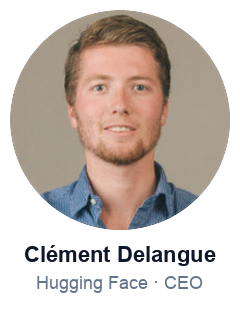
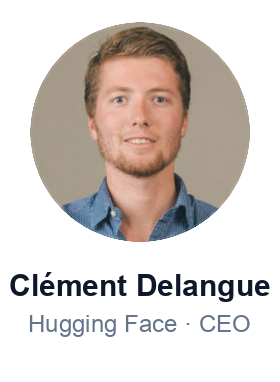
readme: scale libraries grid to 60 portraits in 6×10 rows
Triples the discovery section so the README feels like an actual
library directory rather than a sampler. New picks lean on women in
AI and less-celebrity researchers the previous shortlist missed:

  - Sara Hooker, Anima Anandkumar, Chelsea Finn, Natasha Jaques,
    Maithra Raghu, Irina Rish, Danqi Chen, Rachel Thomas, Merve Noyan
  - Tri Dao, Albert Gu, Lucas Beyer, Tim Dettmers, Horace He,
    Sander Dieleman, Jared Kaplan, Sam Bowman, Jason Wei
  - OpenAI: Greg Brockman, Sam Altman, Mark Chen, Wojciech Zaremba
  - Mistral/Meta: Guillaume Lample, Thomas Scialom
  - European AI: Gilles Louppe, Tim Rocktäschel, François Fleuret
  - Educators: Simon Willison, Jay Alammar, Philipp Schmid, Stas Bekman
  - Plus: Aravind Srinivas, Pieter Abbeel, Sergey Levine, Edward
    Grefenstette, Douwe Kiela, Kyunghyun Cho, Percy Liang, Graham
    Neubig, Arvind Narayanan

Rebaked every card at 280×382 px with bigger labels (Arial Bold 30 +
Arial 24) so when rendered at width=85 the name and role stay legible
instead of collapsing to illegible noise. Six avatars fell back to
initial-monograms when their HuggingFace placeholder URL or Wikipedia
hotlink wasn't fetchable.

Image width drops from 140 to 85 so all ten fit in GitHub's ~896 px
content column on a single line.

diff --git a/README.md b/README.md
@@ -4,7 +4,7 @@
 
 <p align="center"><em>A biased Feed.</em></p>
 
-<p align="center">An opinionated reading list of <strong>454 people</strong> who shape AI, science, and software today. A place to learn.</p>
+<p align="center">An opinionated reading list of <strong>450+ people</strong> who shape AI, science, and software today. A place to learn.</p>
 
 <p align="center"><em>No ads, no algorithm, no infinite scroll. Just what they read.</em></p>
 
@@ -33,38 +33,84 @@ Tap the heart on any card and the doc lands in your library, indexed and searcha
 <p align="center">A few rooms worth walking into.</p>
 
 <p align="center">
-<a href="https://knowledge-web.org/geoffrey-hinton" title="Geoffrey Hinton"><img src="web/img/people/geoffrey-hinton.png" alt="Geoffrey Hinton" width="140"></a>
-<a href="https://knowledge-web.org/yoshua-bengio" title="Yoshua Bengio"><img src="web/img/people/yoshua-bengio.png" alt="Yoshua Bengio" width="140"></a>
-<a href="https://knowledge-web.org/yann-lecun" title="Yann LeCun"><img src="web/img/people/yann-lecun.png" alt="Yann LeCun" width="140"></a>
-<a href="https://knowledge-web.org/andrej-karpathy" title="Andrej Karpathy"><img src="web/img/people/andrej-karpathy.png" alt="Andrej Karpathy" width="140"></a>
-<a href="https://knowledge-web.org/ian-goodfellow" title="Ian Goodfellow"><img src="web/img/people/ian-goodfellow.png" alt="Ian Goodfellow" width="140"></a>
+<a href="https://knowledge-web.org/geoffrey-hinton" title="Geoffrey Hinton"><img src="web/img/people/geoffrey-hinton.png" alt="Geoffrey Hinton" width="85"></a>
+<a href="https://knowledge-web.org/yoshua-bengio" title="Yoshua Bengio"><img src="web/img/people/yoshua-bengio.png" alt="Yoshua Bengio" width="85"></a>
+<a href="https://knowledge-web.org/yann-lecun" title="Yann LeCun"><img src="web/img/people/yann-lecun.png" alt="Yann LeCun" width="85"></a>
+<a href="https://knowledge-web.org/andrej-karpathy" title="Andrej Karpathy"><img src="web/img/people/andrej-karpathy.png" alt="Andrej Karpathy" width="85"></a>
+<a href="https://knowledge-web.org/ian-goodfellow" title="Ian Goodfellow"><img src="web/img/people/ian-goodfellow.png" alt="Ian Goodfellow" width="85"></a>
+<a href="https://knowledge-web.org/ilya-sutskever" title="Ilya Sutskever"><img src="web/img/people/ilya-sutskever.png" alt="Ilya Sutskever" width="85"></a>
+<a href="https://knowledge-web.org/demis-hassabis" title="Demis Hassabis"><img src="web/img/people/demis-hassabis.png" alt="Demis Hassabis" width="85"></a>
+<a href="https://knowledge-web.org/dario-amodei" title="Dario Amodei"><img src="web/img/people/dario-amodei.png" alt="Dario Amodei" width="85"></a>
+<a href="https://knowledge-web.org/oriol-vinyals" title="Oriol Vinyals"><img src="web/img/people/oriol-vinyals.png" alt="Oriol Vinyals" width="85"></a>
+<a href="https://knowledge-web.org/noam-shazeer" title="Noam Shazeer"><img src="web/img/people/noam-shazeer.png" alt="Noam Shazeer" width="85"></a>
 </p>
 
 <p align="center">
-<a href="https://knowledge-web.org/ilya-sutskever" title="Ilya Sutskever"><img src="web/img/people/ilya-sutskever.png" alt="Ilya Sutskever" width="140"></a>
-<a href="https://knowledge-web.org/demis-hassabis" title="Demis Hassabis"><img src="web/img/people/demis-hassabis.png" alt="Demis Hassabis" width="140"></a>
-<a href="https://knowledge-web.org/dario-amodei" title="Dario Amodei"><img src="web/img/people/dario-amodei.png" alt="Dario Amodei" width="140"></a>
-<a href="https://knowledge-web.org/oriol-vinyals" title="Oriol Vinyals"><img src="web/img/people/oriol-vinyals.png" alt="Oriol Vinyals" width="140"></a>
-<a href="https://knowledge-web.org/noam-shazeer" title="Noam Shazeer"><img src="web/img/people/noam-shazeer.png" alt="Noam Shazeer" width="140"></a>
+<a href="https://knowledge-web.org/omar-khattab" title="Omar Khattab"><img src="web/img/people/omar-khattab.png" alt="Omar Khattab" width="85"></a>
+<a href="https://knowledge-web.org/matei-zaharia" title="Matei Zaharia"><img src="web/img/people/matei-zaharia.png" alt="Matei Zaharia" width="85"></a>
+<a href="https://knowledge-web.org/francois-chollet" title="François Chollet"><img src="web/img/people/francois-chollet.png" alt="François Chollet" width="85"></a>
+<a href="https://knowledge-web.org/clement-delangue" title="Clément Delangue"><img src="web/img/people/clement-delangue.png" alt="Clément Delangue" width="85"></a>
+<a href="https://knowledge-web.org/thomas-wolf" title="Thomas Wolf"><img src="web/img/people/thomas-wolf.png" alt="Thomas Wolf" width="85"></a>
+<a href="https://knowledge-web.org/merve-noyan" title="Merve Noyan"><img src="web/img/people/merve-noyan.png" alt="Merve Noyan" width="85"></a>
+<a href="https://knowledge-web.org/philipp-schmid" title="Philipp Schmid"><img src="web/img/people/philipp-schmid.png" alt="Philipp Schmid" width="85"></a>
+<a href="https://knowledge-web.org/stas-bekman" title="Stas Bekman"><img src="web/img/people/stas-bekman.png" alt="Stas Bekman" width="85"></a>
+<a href="https://knowledge-web.org/jay-alammar" title="Jay Alammar"><img src="web/img/people/jay-alammar.png" alt="Jay Alammar" width="85"></a>
+<a href="https://knowledge-web.org/chris-olah" title="Chris Olah"><img src="web/img/people/chris-olah.png" alt="Chris Olah" width="85"></a>
 </p>
 
 <p align="center">
-<a href="https://knowledge-web.org/omar-khattab" title="Omar Khattab"><img src="web/img/people/omar-khattab.png" alt="Omar Khattab" width="140"></a>
-<a href="https://knowledge-web.org/matei-zaharia" title="Matei Zaharia"><img src="web/img/people/matei-zaharia.png" alt="Matei Zaharia" width="140"></a>
-<a href="https://knowledge-web.org/francois-chollet" title="François Chollet"><img src="web/img/people/francois-chollet.png" alt="François Chollet" width="140"></a>
-<a href="https://knowledge-web.org/clement-delangue" title="Clément Delangue"><img src="web/img/people/clement-delangue.png" alt="Clément Delangue" width="140"></a>
-<a href="https://knowledge-web.org/thomas-wolf" title="Thomas Wolf"><img src="web/img/people/thomas-wolf.png" alt="Thomas Wolf" width="140"></a>
+<a href="https://knowledge-web.org/jason-wei" title="Jason Wei"><img src="web/img/people/jason-wei.png" alt="Jason Wei" width="85"></a>
+<a href="https://knowledge-web.org/jared-kaplan" title="Jared Kaplan"><img src="web/img/people/jared-kaplan.png" alt="Jared Kaplan" width="85"></a>
+<a href="https://knowledge-web.org/sam-bowman" title="Sam Bowman"><img src="web/img/people/sam-bowman.png" alt="Sam Bowman" width="85"></a>
+<a href="https://knowledge-web.org/tri-dao" title="Tri Dao"><img src="web/img/people/tri-dao.png" alt="Tri Dao" width="85"></a>
+<a href="https://knowledge-web.org/albert-gu" title="Albert Gu"><img src="web/img/people/albert-gu.png" alt="Albert Gu" width="85"></a>
+<a href="https://knowledge-web.org/lucas-beyer" title="Lucas Beyer"><img src="web/img/people/lucas-beyer.png" alt="Lucas Beyer" width="85"></a>
+<a href="https://knowledge-web.org/tim-dettmers" title="Tim Dettmers"><img src="web/img/people/tim-dettmers.png" alt="Tim Dettmers" width="85"></a>
+<a href="https://knowledge-web.org/horace-he" title="Horace He"><img src="web/img/people/horace-he.png" alt="Horace He" width="85"></a>
+<a href="https://knowledge-web.org/kyunghyun-cho" title="Kyunghyun Cho"><img src="web/img/people/kyunghyun-cho.png" alt="Kyunghyun Cho" width="85"></a>
+<a href="https://knowledge-web.org/percy-liang" title="Percy Liang"><img src="web/img/people/percy-liang.png" alt="Percy Liang" width="85"></a>
 </p>
 
 <p align="center">
-<a href="https://knowledge-web.org/chris-olah" title="Chris Olah"><img src="web/img/people/chris-olah.png" alt="Chris Olah" width="140"></a>
-<a href="https://knowledge-web.org/sebastian-raschka" title="Sebastian Raschka"><img src="web/img/people/sebastian-raschka.png" alt="Sebastian Raschka" width="140"></a>
-<a href="https://knowledge-web.org/max-halford" title="Max Halford"><img src="web/img/people/max-halford.png" alt="Max Halford" width="140"></a>
-<a href="https://knowledge-web.org/pieter-levels" title="Pieter Levels"><img src="web/img/people/pieter-levels.png" alt="Pieter Levels" width="140"></a>
-<a href="https://knowledge-web.org/lex-fridman" title="Lex Fridman"><img src="web/img/people/lex-fridman.png" alt="Lex Fridman" width="140"></a>
+<a href="https://knowledge-web.org/sara-hooker" title="Sara Hooker"><img src="web/img/people/sara-hooker.png" alt="Sara Hooker" width="85"></a>
+<a href="https://knowledge-web.org/anima-anandkumar" title="Anima Anandkumar"><img src="web/img/people/anima-anandkumar.png" alt="Anima Anandkumar" width="85"></a>
+<a href="https://knowledge-web.org/chelsea-finn" title="Chelsea Finn"><img src="web/img/people/chelsea-finn.png" alt="Chelsea Finn" width="85"></a>
+<a href="https://knowledge-web.org/natasha-jaques" title="Natasha Jaques"><img src="web/img/people/natasha-jaques.png" alt="Natasha Jaques" width="85"></a>
+<a href="https://knowledge-web.org/maithra-raghu" title="Maithra Raghu"><img src="web/img/people/maithra-raghu.png" alt="Maithra Raghu" width="85"></a>
+<a href="https://knowledge-web.org/irina-rish" title="Irina Rish"><img src="web/img/people/irina-rish.png" alt="Irina Rish" width="85"></a>
+<a href="https://knowledge-web.org/danqi-chen" title="Danqi Chen"><img src="web/img/people/danqi-chen.png" alt="Danqi Chen" width="85"></a>
+<a href="https://knowledge-web.org/rachel-thomas" title="Rachel Thomas"><img src="web/img/people/rachel-thomas.png" alt="Rachel Thomas" width="85"></a>
+<a href="https://knowledge-web.org/graham-neubig" title="Graham Neubig"><img src="web/img/people/graham-neubig.png" alt="Graham Neubig" width="85"></a>
+<a href="https://knowledge-web.org/sebastian-raschka" title="Sebastian Raschka"><img src="web/img/people/sebastian-raschka.png" alt="Sebastian Raschka" width="85"></a>
 </p>
 
-<p align="center">…or wander through <a href="https://knowledge-web.org">all 454 libraries</a>.</p>
+<p align="center">
+<a href="https://knowledge-web.org/greg-brockman" title="Greg Brockman"><img src="web/img/people/greg-brockman.png" alt="Greg Brockman" width="85"></a>
+<a href="https://knowledge-web.org/sam-altman" title="Sam Altman"><img src="web/img/people/sam-altman.png" alt="Sam Altman" width="85"></a>
+<a href="https://knowledge-web.org/mark-chen" title="Mark Chen"><img src="web/img/people/mark-chen.png" alt="Mark Chen" width="85"></a>
+<a href="https://knowledge-web.org/wojciech-zaremba" title="Wojciech Zaremba"><img src="web/img/people/wojciech-zaremba.png" alt="Wojciech Zaremba" width="85"></a>
+<a href="https://knowledge-web.org/aravind-srinivas" title="Aravind Srinivas"><img src="web/img/people/aravind-srinivas.png" alt="Aravind Srinivas" width="85"></a>
+<a href="https://knowledge-web.org/pieter-abbeel" title="Pieter Abbeel"><img src="web/img/people/pieter-abbeel.png" alt="Pieter Abbeel" width="85"></a>
+<a href="https://knowledge-web.org/sergey-levine" title="Sergey Levine"><img src="web/img/people/sergey-levine.png" alt="Sergey Levine" width="85"></a>
+<a href="https://knowledge-web.org/edward-grefenstette" title="Edward Grefenstette"><img src="web/img/people/edward-grefenstette.png" alt="Edward Grefenstette" width="85"></a>
+<a href="https://knowledge-web.org/douwe-kiela" title="Douwe Kiela"><img src="web/img/people/douwe-kiela.png" alt="Douwe Kiela" width="85"></a>
+<a href="https://knowledge-web.org/simon-willison" title="Simon Willison"><img src="web/img/people/simon-willison.png" alt="Simon Willison" width="85"></a>
+</p>
+
+<p align="center">
+<a href="https://knowledge-web.org/guillaume-lample" title="Guillaume Lample"><img src="web/img/people/guillaume-lample.png" alt="Guillaume Lample" width="85"></a>
+<a href="https://knowledge-web.org/thomas-scialom" title="Thomas Scialom"><img src="web/img/people/thomas-scialom.png" alt="Thomas Scialom" width="85"></a>
+<a href="https://knowledge-web.org/gilles-louppe" title="Gilles Louppe"><img src="web/img/people/gilles-louppe.png" alt="Gilles Louppe" width="85"></a>
+<a href="https://knowledge-web.org/tim-rocktaschel" title="Tim Rocktäschel"><img src="web/img/people/tim-rocktaschel.png" alt="Tim Rocktäschel" width="85"></a>
+<a href="https://knowledge-web.org/francois-fleuret" title="François Fleuret"><img src="web/img/people/francois-fleuret.png" alt="François Fleuret" width="85"></a>
+<a href="https://knowledge-web.org/arvind-narayanan" title="Arvind Narayanan"><img src="web/img/people/arvind-narayanan.png" alt="Arvind Narayanan" width="85"></a>
+<a href="https://knowledge-web.org/sander-dieleman" title="Sander Dieleman"><img src="web/img/people/sander-dieleman.png" alt="Sander Dieleman" width="85"></a>
+<a href="https://knowledge-web.org/max-halford" title="Max Halford"><img src="web/img/people/max-halford.png" alt="Max Halford" width="85"></a>
+<a href="https://knowledge-web.org/pieter-levels" title="Pieter Levels"><img src="web/img/people/pieter-levels.png" alt="Pieter Levels" width="85"></a>
+<a href="https://knowledge-web.org/lex-fridman" title="Lex Fridman"><img src="web/img/people/lex-fridman.png" alt="Lex Fridman" width="85"></a>
+</p>
+
+<p align="center">…or wander through <a href="https://knowledge-web.org">all 450+ libraries</a>.</p>
 
 <br>
 
@@ -141,7 +187,7 @@ The pipeline runs all day, walking through each personality's sources in a conti
 <h2>Why it helps</h2>
 
 <p align="justify">
-Most platforms compete for your attention with infinite feeds, ads between every post, notifications you didn't ask for, recommendations from an algorithm that learned to manipulate you. Knowledge does the opposite: small, finite libraries you can return to. Use it to research a topic across experts. Search 454 libraries at once for "speculative decoding" and you get curated context instead of random Google noise. Browse Karpathy's GitHub stars, Yann LeCun's papers, Geoffrey Hinton's interviews, all in one place. Stop doomscrolling X. The site compresses someone's year of tweets into a static page you can read once and close. Sign in to save what matters, search your own library, mint a token to wire the MCP server into Claude, Cursor, or any agent that speaks MCP.
+Most platforms compete for your attention with infinite feeds, ads between every post, notifications you didn't ask for, recommendations from an algorithm that learned to manipulate you. Knowledge does the opposite: small, finite libraries you can return to. Use it to research a topic across experts. Search 450+ libraries at once for "speculative decoding" and you get curated context instead of random Google noise. Browse Karpathy's GitHub stars, Yann LeCun's papers, Geoffrey Hinton's interviews, all in one place. Stop doomscrolling X. The site compresses someone's year of tweets into a static page you can read once and close. Sign in to save what matters, search your own library, mint a token to wire the MCP server into Claude, Cursor, or any agent that speaks MCP.
 </p>
 
 <br>
@@ -155,7 +201,7 @@ Knowledge has always been a showcase for the information retrieval tools I'm bui
 <br>
 
 <p align="justify">
-The pipeline parses about a dozen sources: GitHub stars, X posts and likes, Hacker News submissions and comments, arXiv, Google Scholar, DBLP, Hugging Face likes, YouTube channels, Zotero libraries, Reddit, Stack Overflow, Wikipedia references, plus any blog you can point at via RSS or sitemap. As of today that's <strong>454 personal libraries</strong>, around <strong>440,000 documents</strong> indexed.
+The pipeline parses about a dozen sources: GitHub stars, X posts and likes, Hacker News submissions and comments, arXiv, Google Scholar, DBLP, Hugging Face likes, YouTube channels, Zotero libraries, Reddit, Stack Overflow, Wikipedia references, plus any blog you can point at via RSS or sitemap. As of today that's <strong>450+ personal libraries</strong>, around <strong>440,000 documents</strong> indexed.
 </p>
 
 <br>
